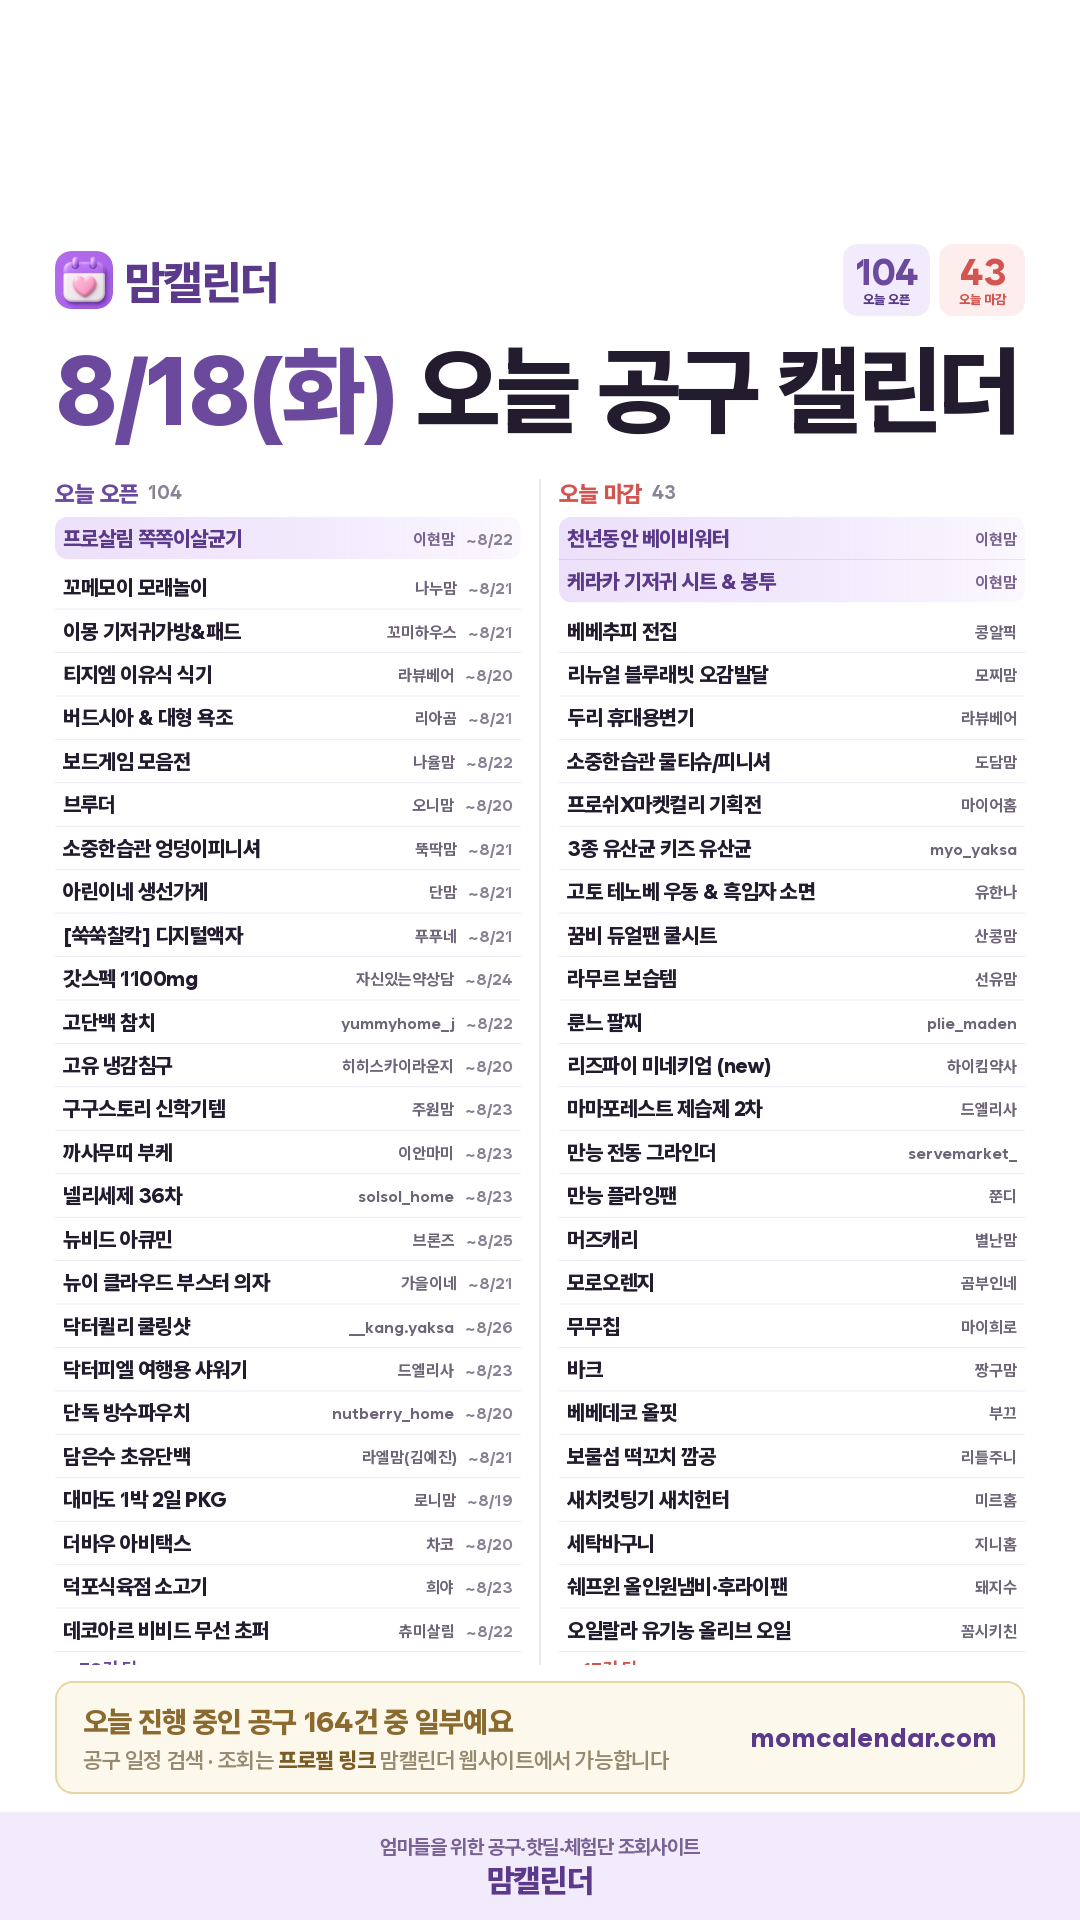
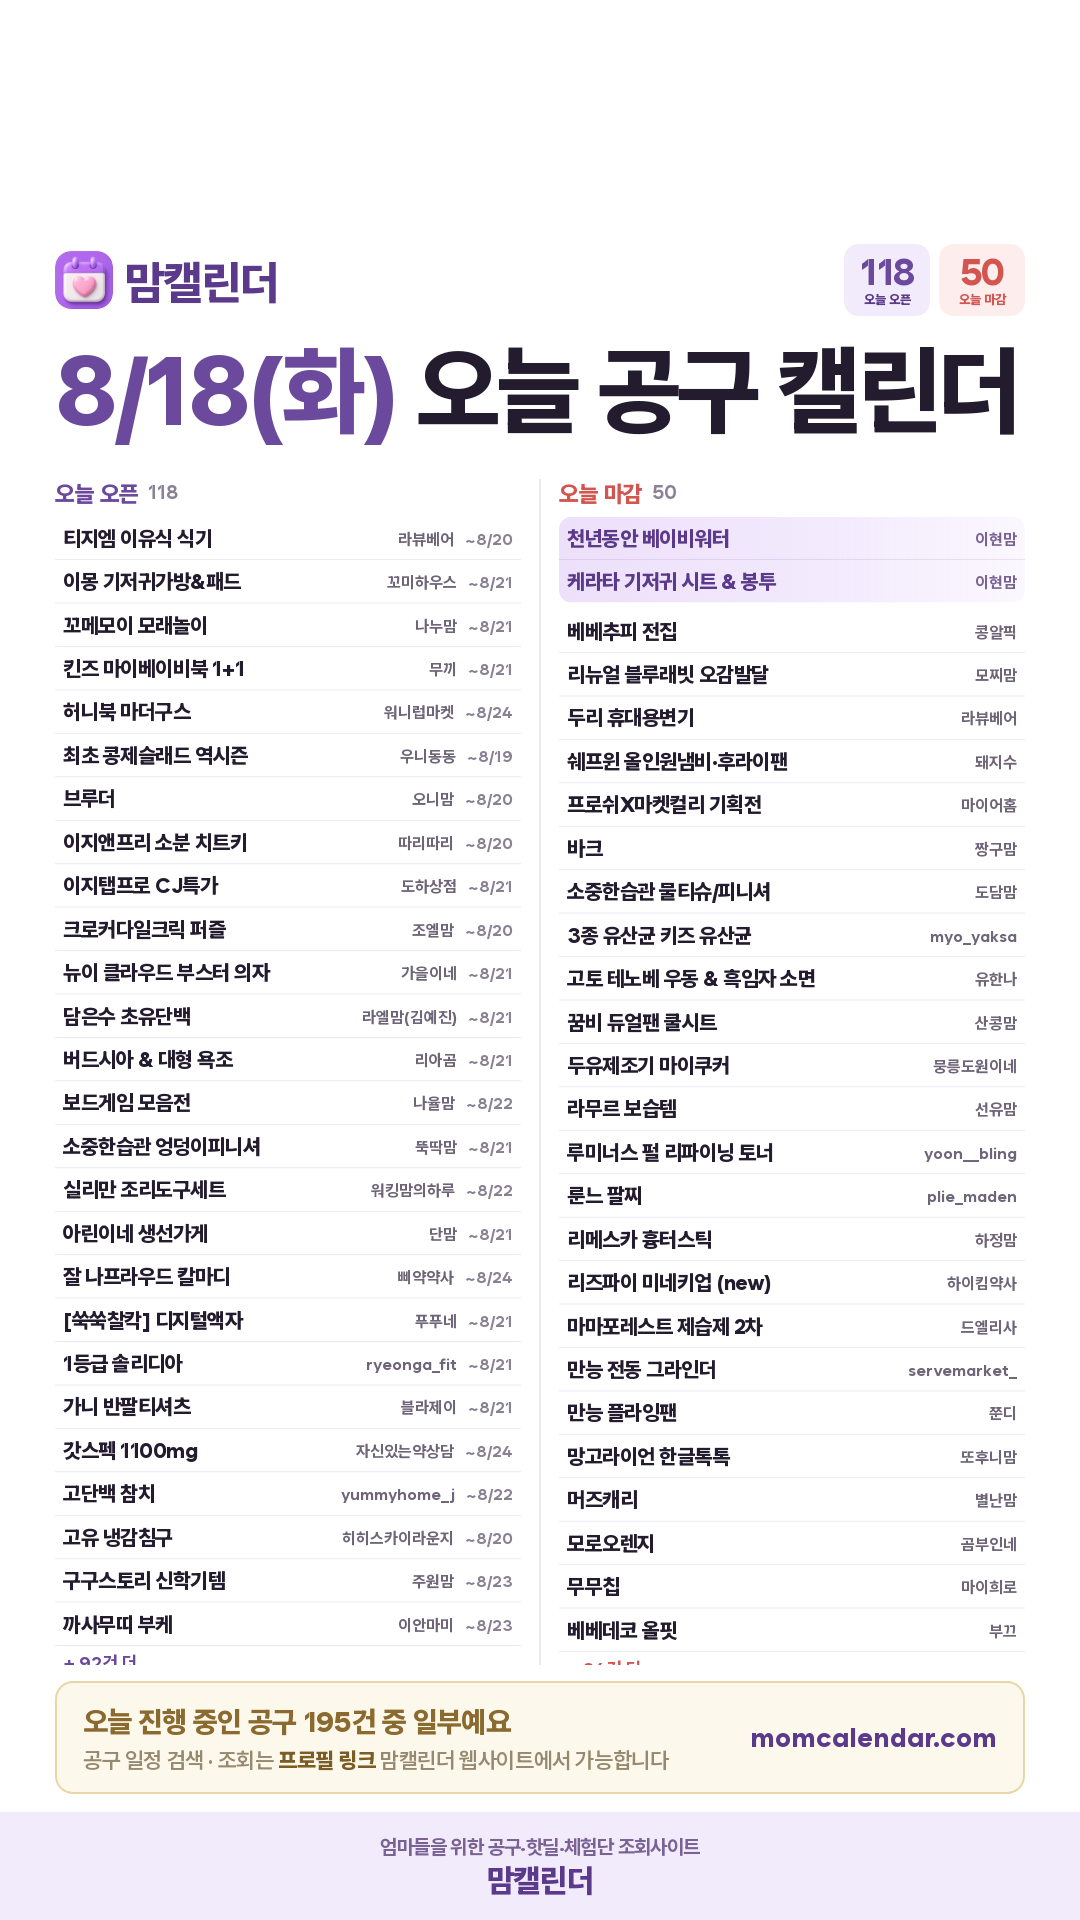
아침 인스타 카드 (2026-08-17)

diff --git a/daily/2026-08-18.html b/daily/2026-08-18.html
@@ -19,7 +19,7 @@ textarea{width:100%;height:260px;border:1px solid #E3DCEF;border-radius:10px;pad
 .todo p{font-size:12.5px;color:#6B6379;line-height:1.75;margin-top:6px}
 .todo a{color:#5B2E8C;font-weight:700}
 </style></head><body>
-<div class="hd"><div class="wrap"><h1>8월 18일(화) 인스타 카드</h1><p>오픈 104건 · 마감 43건</p></div></div>
+<div class="hd"><div class="wrap"><h1>8월 18일(화) 인스타 카드</h1><p>오픈 118건 · 마감 50건</p></div></div>
 <div class="wrap">
   <div class="todo"><b>사장님 확인 부탁드려요 · 링크프라이스 · 오늘의집 제휴 신청 (각 5분)</b><p>핫딜을 우리 수익링크로 바꿀 수 있는 곳을 늘리는 일입니다.<br>
     ① <b>링크프라이스</b> 로그인 → 머천트 검색 → <b>오늘의집·SSG</b> 제휴 신청
@@ -36,82 +36,81 @@ textarea{width:100%;height:260px;border:1px solid #E3DCEF;border-radius:10px;pad
 맘캘린더에서 공유드리는
 8월 18일(화) 오늘 공구 캘린더
 
-오픈 94건 · 마감 37건
+오픈 105건 · 마감 42건
 
 ━━━━━━━━━━━━━━
 
-💜 맘캘린더 이웃셀러
-· 프로살림 쪽쪽이살균기 — 이현맘 @ihyeon_mom_251125 (~8/22)
-
 🔓 오늘 오픈하는 공구
-· 꼬메모이 모래놀이 — 나누맘 (~8/21)
-· 이몽 기저귀가방&amp;패드 — 꼬미하우스 (~8/21)
 · 티지엠 이유식 식기 — 라뷰베어 (~8/20)
+· 이몽 기저귀가방&amp;패드 — 꼬미하우스 (~8/21)
+· 꼬메모이 모래놀이 — 나누맘 (~8/21)
+· 킨즈 마이베이비북 1+1 — 무끼 (~8/21)
+· 허니북 마더구스 — 워니럽마켓 (~8/24)
+· 최초 공구 콩제슬래드 역시즌 — 우니동동 (~8/19)
+· 브루더 — 오니맘 (~8/20)
+· 이지앤프리 유아식 소분 치트키 — 따리따리 (~8/20)
+· 이지탭프로 CJ특가 — 도하상점 (~8/21)
+· 크로커다일크릭 퍼즐 — 조엘맘 (~8/20)
+· 뉴이 클라우드 부스터 의자 — 가을이네 (~8/21)
+· 담은수 채수·맛간장·보리차·초유단백 — 라엘맘(김예진) (~8/21)
 · 버드시아 아기세면대 &amp; 대형 욕조 — 리아곰 (~8/21)
 · 보드게임 모음전 — 나율맘 (~8/22)
-· 브루더 — 오니맘 (~8/20)
 · 소중한습관 물티슈 엉덩이피니셔 — 뚝딱맘 (~8/21)
+· 실리만 실리콘 조리도구세트 — 워킹맘의하루 (~8/22)
 · 아린이네 생선가게 — 단맘 (~8/21)
+· 잘 만든 칼마디 나프라우드 칼마디 — 삐약약사 (~8/24)
 · [쑥쑥찰칵] 디지털액자 — 푸푸네 (~8/21)
+· 1등급 의료기기 솔리디아 — ryeonga_fit (~8/21)
+· 가니 반팔티셔츠 — 블라제이 (~8/21)
 · 갓스펙 맥스 오메가3 1100mg — 자신있는약상담 (~8/24)
 · 고단백 올리브오일 리오마레 참치 — yummyhome_j (~8/22)
 · 고유 냉감침구 — 히히스카이라운지 (~8/20)
 · 구구스토리 신학기템 — 주원맘 (~8/23)
 · 까사무띠 부케 — 이안마미 (~8/23)
+· 까사미아 셰이커박스 — 채집 (~8/21)
 · 넬리세제 36차 — solsol_home (~8/23)
+· 뉴 드레스 컬렉션 — mimiwor (~8/24)
 · 뉴비드 아큐민 — 브론즈 (~8/25)
-· 뉴이 클라우드 부스터 의자 — 가을이네 (~8/21)
 · 닥터퀼리 트리플 마그네슘 쿨링샷 — __kang.yaksa (~8/26)
 · 닥터피엘 여행용 샤워기 — 드엘리사 (~8/23)
 · 단독 첫 공구 방수파우치 — nutberry_home (~8/20)
-· 담은수 채수·맛간장·보리차·초유단백 — 라엘맘(김예진) (~8/21)
-· 대마도 1박 2일 PKG — 로니맘 (~8/19)
-· 더바우 아비택스 — 차코 (~8/20)
-· 덕포식육점 아이곰탕/아기 소고기 — 희야 (~8/23)
-· 데코아르 멜로우 비비드 무선 초퍼 — 츄미살림 (~8/22)
-· 도트앤라인 네임스티커 — maisondeella (~8/21)
-· 드시모네 여성 유산균 — 마이어홈 (~8/20)
-· 레딕센 두피스왑 &amp; 헤어팩 — 로라 (~8/21)
-· 로알벌꿀고구마 — 우동맘 (~8/21)
-· 롱샴 가방 — 제제백화점 (~8/23)
-· 리뗀끌로르 거즈햇&amp;빕 — 말랑맘 (~8/21)
-· 리셋세럼 — jmini_ljm (~8/20)
-…나머지 61건은 맘캘린더 사이트에서 보실 수 있어요
+…나머지 72건은 맘캘린더 사이트에서 보실 수 있어요
 
 ⏰ 오늘 마감하는 공구
 · 천년동안 베이비워터 — 이현맘 @ihyeon_mom_251125
-· 케라카 기저귀 시트 &amp; 봉투 — 이현맘 @ihyeon_mom_251125
+· 케라타 기저귀 시트 &amp; 봉투 — 이현맘 @ihyeon_mom_251125
 · 베베추피 전집 — 콩알픽
 · 리뉴얼 블루래빗 오감발달 — 모찌맘
 · 두리 휴대용변기 — 라뷰베어
-· 소중한습관 물티슈/피니셔 — 도담맘
+· 쉐프윈 올인원냄비·후라이팬 — 돼지수
 · 프로쉬X마켓컬리 기획전 — 마이어홈
+· 바크 — 짱구맘
+· 소중한습관 물티슈/피니셔 — 도담맘
 · 3종 시그니처 유산균 + 키즈 유산균 7차 — myo_yaksa
 · 고토 테노베 우동 &amp; 흑임자 소면 — 유한나
 · 꿈비 듀얼팬 쿨시트 — 산콩맘
+· 두유제조기 마이쿠커 — 뭉릉도원이네
 · 라무르 보습템 — 선유맘
+· 루미너스 펄 리파이닝 토너 — yoon__bling
 · 룬느 팔찌 — plie_maden
+· 리메스카 흉터스틱 — 하정맘
 · 리즈파이 미네키업 (new) — 하이킴약사
 · 마마포레스트 제습제 2차 — 드엘리사
 · 만능 오리지니크 전동 그라인더 6차 — servemarket_
 · 만능 플라잉팬 — 쭌디
+· 망고라이언 한글톡톡 — 또후니맘
 · 머즈캐리 — 별난맘
 · 모로오렌지 — 곰부인네
 · 무무칩 — 마이희로
-· 바크 — 짱구맘
 · 베베데코 올핏 — 부끄
 · 보물섬 떡꼬치 깜공(새로운 맛+) — 리틀주니
 · 새치컷팅기 새치헌터 — 미르홈
 · 세탁바구니 — 지니홈
-· 쉐프윈 올인원냄비·후라이팬 — 돼지수
 · 오일랄라 유기농 올리브 오일 — 꼼시키친
 · 욕실용품 거치대 — 카루셀리
 · 유투바이옴 — 미니똘
 · 일편떡심 24차 — 바이바나
-· 천연치유에센스 큐라이프 — 제제로운건강생활
-· 키저스 아기 선글라스 — 우유맘
-· 티바인 히비스커스 — 앙젤리크
-…나머지 5건은 맘캘린더 사이트에서 보실 수 있어요
+…나머지 9건은 맘캘린더 사이트에서 보실 수 있어요
 
 ━━━━━━━━━━━━━━
 
@@ -124,12 +123,12 @@ textarea{width:100%;height:260px;border:1px solid #E3DCEF;border-radius:10px;pad
 ⚠ 공구 일정은 판매자 사정에 따라 변경되거나 조기 마감될 수 있어요. 구매 전에 해당 셀러 계정에서 한 번 더 확인해 주세요.
 
 #맘캘린더 #공구일정 #육아공구 #육아용품 #책육아 #육아정보 #공구정보 #육아템 #먹거리공구 #살림템 #교구 #유모차</textarea>
-    <div class="meta">2182자 / 2200자 · 오픈 32/93 · 마감 32/37</div>
+    <div class="meta">2194자 / 2200자 · 오픈 33/105 · 마감 33/42</div>
     <button class="btn btn2" onclick="cp('cap','캡션')">캡션 복사</button>
   </div>
   <div class="card">
     <div class="meta" style="margin:0 0 8px;font-weight:800;color:#5B2E8C">네이버 블로그용 (blog.naver.com/momcal) — 수정해서 쓰셔도 돼요</div>
-    <textarea id="btitle" style="height:54px">8월 18일(화) 오늘 공구일정 모음 | 데코아르 공구 외</textarea>
+    <textarea id="btitle" style="height:54px">8월 18일(화) 오늘 공구일정 모음 | 까사미아 공구 외</textarea>
     <button class="btn btn2" onclick="cp('btitle','블로그 제목')">블로그 제목 복사</button>
     <textarea id="bbody" style="margin-top:9px">맘캘린더 채널 한눈에
 · 전체 공구 일정 실시간 검색 → https://momcalendar.com
@@ -142,12 +141,12 @@ textarea{width:100%;height:260px;border:1px solid #E3DCEF;border-radius:10px;pad
 · 카톡 수다방 → https://open.kakao.com/o/gr2kJhCh
 ─────────────
 
-8월 18일(화), 오늘 새로 오픈하는 인스타 공구일정 104건을 카테고리별로 정리했어요.
-오늘 마감되는 공구도 44건 있으니 놓치지 마세요.
+8월 18일(화), 오늘 새로 오픈하는 인스타 공구일정 119건을 카테고리별로 정리했어요.
+오늘 마감되는 공구도 51건 있으니 놓치지 마세요.
 
 (여기에 저장해 두신 카드 사진을 넣어주세요)
 
-■ 오늘 오픈하는 공구 104건
+■ 오늘 오픈하는 공구 119건
 
 [육아]
 · [쑥쑥찰칵] 디지털액자 — 푸푸네 (~8/21 마감)
@@ -172,33 +171,40 @@ textarea{width:100%;height:260px;border:1px solid #E3DCEF;border-radius:10px;pad
 · 세이메모리 가족티&amp;턱받이 — 쀼맘 (~8/24 마감)
 · 소중한습관 물티슈 엉덩이피니셔 — 뚝딱맘 (~8/21 마감)
 · 스콜라스틱 픽처북 가든 — 로리안 (~8/25 마감)
+· 아람북스 요술항아리 전래동화 — yujunmom0628 (~8/21 마감)
 · 아오라 우주빔 — 벨라하우스 (~8/23 마감)
 · 어뜌 롤링 스크린 안전문 — 산콩맘 (~8/21 마감)
 · 오가닉스 포리지 + 퓨레 — 도아로운 (~8/21 마감)
+· 온가족 화장품라무르 — 종달맘 (~8/21 마감)
 · 옴모크레용 — 쀼맘 (~8/21 마감)
-· 이몽 기저귀 가방 &amp; 기저귀패드 — 꼬미하우스 (~8/21 마감)
 · 이몽 기저귀가방&amp;패드 — 꼬미하우스 (~8/21 마감)
 · 이지앤프리 유아식 소분 치트키 — 따리따리 (~8/20 마감)
 · 최초 공구 콩제슬래드 역시즌 — 우니동동 (~8/19 마감)
+· 캐논 G3990 수량한정 — needlenina (~8/20 마감)
 · 케피 — 쿵동맘 (~8/21 마감)
 · 크로커다일크릭 퍼즐 — 조엘맘 (~8/20 마감)
 · 킨즈 르베르 유모차 — 옐로우맘 (~8/22 마감)
 · 킨즈 마이베이비북 1+1 — 무끼 (~8/21 마감)
+· 텀블러장난감99.9%발포세정제 터블 — 하루맘 (~8/21 마감)
 · 티지엠 이유식 식기 — 라뷰베어 (~8/20 마감)
-· 프로살림 쪽쪽이살균기 — 이현맘 (~8/22 마감)
 · 허그파파 아기띠 — 뚝딱맘 (~8/21 마감)
 · 허니북 마더구스 — 워니럽마켓 (~8/24 마감)
 · 휴대용 보드게임 — 온이프홈 (~8/20 마감)
 
 [리빙]
+· 가니 반팔티셔츠 — 블라제이 (~8/21 마감)
 · 고유 냉감침구 — 히히스카이라운지 (~8/20 마감)
 · 넬리세제 36차 — solsol_home (~8/23 마감)
 · 닥터피엘 여행용 샤워기 — 드엘리사 (~8/23 마감)
 · 대마도 1박 2일 PKG — 로니맘 (~8/19 마감)
+· 리라그루브·청키 — yoonyoon.life (~8/21 마감)
 · 마마포레스트 모음전 — 지미테이블 (~8/23 마감)
+· 무ㅇㅇㅇ, 그 실내복 — 차니맘 (~8/20 마감)
+· 미스티파이 오일스프레이 — 예지홈 (~8/22 마감)
 · 미스티파이 행주 — minhi.house (~8/21 마감)
 · 바스탈취제 — 나니맘 (~8/21 마감)
 · 브루클린스탠밧드2차 — 햇림 (~8/23 마감)
+· 비연담 국 4종 — @cocobebe___ (~8/21 마감)
 · 쁘리엘르 아이방 침구 — 도다미네 (~8/21 마감)
 · 실리만 실리콘 조리도구세트 — 워킹맘의하루 (~8/22 마감)
 · 오리지니크 싱크캐디·바스캐디 — ro_jun_home (~8/22 마감)
@@ -216,10 +222,12 @@ textarea{width:100%;height:260px;border:1px solid #E3DCEF;border-radius:10px;pad
 · 헤리터 스텐 테이블매트 — 카루셀리 (~8/21 마감)
 
 [식품]
+· &lt;담은수&gt;채수•맛간장•보리차•초유단백 — 라엘맘(김예진) (~8/21 마감)
 · 고단백 올리브오일 리오마레 참치 — yummyhome_j (~8/22 마감)
 · 덕포식육점 아이곰탕/아기 소고기 — 희야 (~8/23 마감)
 · 로알벌꿀고구마 — 우동맘 (~8/21 마감)
 · 리오마레 참치 &lt;강추&gt; — 리틀주니 (~8/21 마감)
+· 마이키즈 — 우동맘 (~8/25 마감)
 · 미락 진공쌀통 — 우유맘 (~8/23 마감)
 · 발사믹 무화과·포도·화이트·트러플·사과 — __a.fit.__ (~8/22 마감)
 · 아린이네 생선가게 — 단맘 (~8/21 마감)
@@ -229,6 +237,7 @@ textarea{width:100%;height:260px;border:1px solid #E3DCEF;border-radius:10px;pad
 · 착즙하는남자 착즙주스 — 율이네 (~8/23 마감)
 
 [건강]
+· 1등급 의료기기 솔리디아 — ryeonga_fit (~8/21 마감)
 · 갓스펙 맥스 오메가3 1100mg — 자신있는약상담 (~8/24 마감)
 · 뉴비드 아큐민 — 브론즈 (~8/25 마감)
 · 닥터퀼리 트리플 마그네슘 쿨링샷 — __kang.yaksa (~8/26 마감)
@@ -236,6 +245,8 @@ textarea{width:100%;height:260px;border:1px solid #E3DCEF;border-radius:10px;pad
 · 드시모네 여성 유산균 — 마이어홈 (~8/20 마감)
 · 바이오컴 12차 — songyuul (~8/23 마감)
 · 보미오라 다이어트환 u&amp; 디톡스환 — 바이요미 (~8/23 마감)
+· 부종 쫙 잡는 탈라 실루엣 SET — 윤지쌤 (~8/23 마감)
+· 시크릿템 — shonyroom (~8/21 마감)
 · 엠락틴 — 유한나 (~8/21 마감)
 · 잘 만든 칼마디 나프라우드 칼마디 — 삐약약사 (~8/24 마감)
 · 파이토블락 — 캔디맘 (~8/23 마감)
@@ -252,15 +263,18 @@ textarea{width:100%;height:260px;border:1px solid #E3DCEF;border-radius:10px;pad
 · 피토메르 하루특가 — 이유데이 (~8/21 마감)
 
 [가전]
+· 까사미아 셰이커박스 — 채집 (~8/21 마감)
 · 데코아르 멜로우 비비드 무선 초퍼 — 츄미살림 (~8/22 마감)
 · 데코아르 무선 초퍼 — 쭌디 (~8/24 마감)
 · 무선 미니 글라스 초퍼 2차 — 라미홈 (~8/21 마감)
 · 무아스 2 in 1 핸디 스팀 다리미 — 로라도라홈 (~8/22 마감)
 · 미닉스 더 플렌더 mini — 헤이지니 (~8/20 마감)
 · 아카라 도어락 — 유부림 (~8/21 마감)
+· 옆집 꽃님이네 뚝딱카레 — _taemom (~8/22 마감)
 · 프레미디 TV — 부끄 (~8/22 마감)
 
 [패션]
+· 뉴 드레스 컬렉션 — mimiwor (~8/24 마감)
 · 롱샴 가방 — 제제백화점 (~8/23 마감)
 · 솔리디아 1등급 의료기기 3차 — ryeonga_fit (~8/21 마감)
 
@@ -273,20 +287,26 @@ textarea{width:100%;height:260px;border:1px solid #E3DCEF;border-radius:10px;pad
 [반려동물]
 · 더바우 아비택스 — 차코 (~8/20 마감)
 
-■ 오늘 마감하는 공구 44건
+■ 오늘 마감하는 공구 51건
 · 3종 시그니처 유산균 + 키즈 유산균 7차 — myo_yaksa
 · JBJ세탁바구니 3종 &amp; 페블 세제 — 로라도라홈
 · K-낙산균 올케어 플러스 — __kang.yaksa
+· MG-DHA뷰&amp;new MG-시그넘 오메가3 — 하늘
 · 고토 테노베 우동 &amp; 흑임자 소면 — 유한나
 · 꿈비 듀얼팬 쿨시트 — 산콩맘
 · 두리 휴대용변기 — 라뷰베어
+· 두유제조기 마이쿠커 — 뭉릉도원이네
 · 라무르 보습템 — 선유맘
+· 루미너스 펄 리파이닝 토너 — yoon__bling
 · 룬느 팔찌 — plie_maden
 · 리뉴얼 블루래빗 오감발달 — 모찌맘
+· 리메스카 흉터스틱 — 하정맘
 · 리즈파이 미네키업 (new) — 하이킴약사
 · 마마포레스트 제습제 2차 — 드엘리사
+· 마이쿠커 두유제조기 — 뭉릉도원이네
 · 만능 오리지니크 전동 그라인더 6차 — servemarket_
 · 만능 플라잉팬 — 쭌디
+· 망고라이언 한글톡톡 — 또후니맘
 · 머즈캐리 — 별난맘
 · 모로오렌지 — 곰부인네
 · 무무칩 — 마이희로
@@ -309,7 +329,7 @@ textarea{width:100%;height:260px;border:1px solid #E3DCEF;border-radius:10px;pad
 · 짐샌더슨 롤앤고 쇼퍼백 3차 — servemarket_
 · 천년동안 베이비워터 — 이현맘
 · 천연치유에센스 큐라이프 — 제제로운건강생활
-· 케라카 기저귀 시트 &amp; 봉투 — 이현맘
+· 케라타 기저귀 시트 &amp; 봉투 — 이현맘
 · 코에르 욕실매트 — 돼지수
 · 키저스 아기 선글라스 — 우유맘
 · 티바인 히비스커스 — 앙젤리크
@@ -317,11 +337,17 @@ textarea{width:100%;height:260px;border:1px solid #E3DCEF;border-radius:10px;pad
 · 프로쉬X마켓컬리 기획전 — 마이어홈
 · 홈앤아트 스팀 청소기 — 앨리스홈
 · 후 근현대사 안창호 신간 — 위쓰담북
+· 후 근현대사 유일한 신간 — 위쓰담북
 · 힐링샤워템 바디워시 5종 — 달콤맘
+
+■ 오늘의 브랜드: 까사미아
+· 까사미아 공구는 인스타 셀러들이 기간을 정해 여는 공동구매예요. 최근에는 채집, 유부림 님이 진행했어요.
+· 가격은 오픈일에 셀러 계정 공지로 공개돼요. 같은 제품이라도 셀러·구성에 따라 조금씩 달라서, 공지에서 확인하는 게 가장 정확해요.
+· 이번에 놓쳤다면 너무 아쉬워하지 마세요. 까사미아 공구는 보통 일정 간격을 두고 다시 열려요. 전체 일정은 여기서 → https://momcalendar.com/g/%EA%B9%8C%EC%82%AC%EB%AF%B8%EC%95%84.html
 
 ※ 공구 일정은 판매자 사정에 따라 변경되거나 조기 마감될 수 있어요. 구매 전에 해당 셀러 계정에서 한 번 더 확인해 주세요.
 
-#공구일정 #인스타공구 #인스타공구일정 #공동구매 #오늘의공구 #육아공구 #공구모음 #데코아르공구 #무선공구 #무아스공구 #미닉스공구 #아카라공구 #프레미디공구 #갓스펙공구 #뉴비드공구</textarea>
+#공구일정 #인스타공구 #인스타공구일정 #공동구매 #오늘의공구 #육아공구 #공구모음 #까사미아공구 #데코아르공구 #무선공구 #무아스공구 #미닉스공구 #아카라공구 #옆집공구 #프레미디공구</textarea>
     <button class="btn" onclick="cp('bbody','블로그 본문 전체')">블로그 본문 전체 복사 (태그 포함)</button>
     <div class="meta">순서: 사진 저장 → 블로그 앱 글쓰기 → 제목 붙여넣기 → 본문 붙여넣기 → (여기에 카드 사진) 자리에 사진 → 발행. 끝의 #태그들은 자동으로 태그가 돼요</div>
   </div>

diff --git a/daily/index.html b/daily/index.html
@@ -1,1 +1,1 @@
-<!DOCTYPE html><meta charset="UTF-8"><meta http-equiv="refresh" content="0;url=./2026-08-17.html">
+<!DOCTYPE html><meta charset="UTF-8"><meta http-equiv="refresh" content="0;url=./2026-08-18.html">
